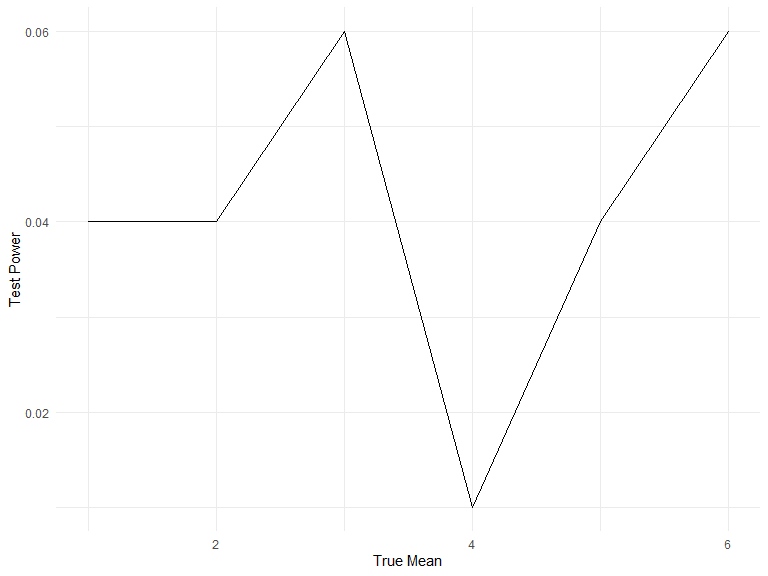
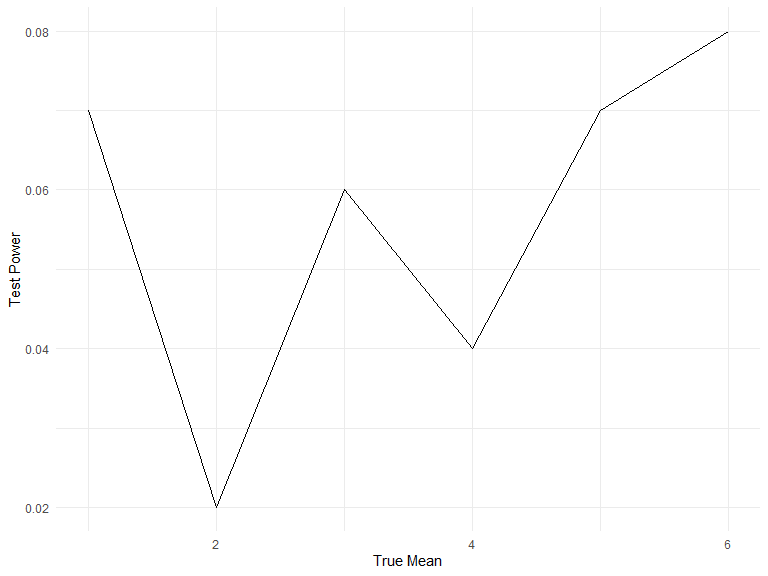
Final commit

diff --git a/p8105_hw5_sr3861.md b/p8105_hw5_sr3861.md
@@ -366,7 +366,6 @@ balt_prop_test %>%
 
 ``` r
 #create a function to perform prop.test()
-
 fxn_prop_test = function(data){
 
 city_summary = 
@@ -393,9 +392,80 @@ all_proportions =
   mutate(
     test_results = map(data, fxn_prop_test))%>%
   select(city_state, test_results) %>%
-  unnest(test_results) %>%
-  knitr::kable()
+  unnest(test_results)
+
+all_proportions %>% knitr::kable()
 ```
+
+| city_state         |  estimate |  conf.low | conf.high |
+|:-------------------|----------:|----------:|----------:|
+| Albuquerque, NM    | 0.3862434 | 0.3372604 | 0.4375766 |
+| Atlanta, GA        | 0.3833505 | 0.3528119 | 0.4148219 |
+| Baltimore, MD      | 0.6455607 | 0.6275625 | 0.6631599 |
+| Baton Rouge, LA    | 0.4622642 | 0.4141987 | 0.5110240 |
+| Birmingham, AL     | 0.4337500 | 0.3991889 | 0.4689557 |
+| Boston, MA         | 0.5048860 | 0.4646219 | 0.5450881 |
+| Buffalo, NY        | 0.6122841 | 0.5687990 | 0.6540879 |
+| Charlotte, NC      | 0.2998544 | 0.2660820 | 0.3358999 |
+| Chicago, IL        | 0.7358627 | 0.7239959 | 0.7473998 |
+| Cincinnati, OH     | 0.4452450 | 0.4079606 | 0.4831439 |
+| Columbus, OH       | 0.5304428 | 0.5002167 | 0.5604506 |
+| Dallas, TX         | 0.4811742 | 0.4561942 | 0.5062475 |
+| Denver, CO         | 0.5416667 | 0.4846098 | 0.5976807 |
+| Detroit, MI        | 0.5883287 | 0.5687903 | 0.6075953 |
+| Durham, NC         | 0.3659420 | 0.3095874 | 0.4260936 |
+| Fort Worth, TX     | 0.4644809 | 0.4222542 | 0.5072119 |
+| Fresno, CA         | 0.3470226 | 0.3051013 | 0.3913963 |
+| Houston, TX        | 0.5074779 | 0.4892447 | 0.5256914 |
+| Indianapolis, IN   | 0.4493192 | 0.4223156 | 0.4766207 |
+| Jacksonville, FL   | 0.5111301 | 0.4820460 | 0.5401402 |
+| Kansas City, MO    | 0.4084034 | 0.3803996 | 0.4370054 |
+| Las Vegas, NV      | 0.4141926 | 0.3881284 | 0.4407395 |
+| Long Beach, CA     | 0.4126984 | 0.3629026 | 0.4642973 |
+| Los Angeles, CA    | 0.4900310 | 0.4692208 | 0.5108754 |
+| Louisville, KY     | 0.4531250 | 0.4120609 | 0.4948235 |
+| Memphis, TN        | 0.3190225 | 0.2957047 | 0.3432691 |
+| Miami, FL          | 0.6048387 | 0.5685783 | 0.6400015 |
+| Milwaukee, wI      | 0.3614350 | 0.3333172 | 0.3905194 |
+| Minneapolis, MN    | 0.5109290 | 0.4585150 | 0.5631099 |
+| Nashville, TN      | 0.3624511 | 0.3285592 | 0.3977401 |
+| New Orleans, LA    | 0.6485356 | 0.6231048 | 0.6731615 |
+| New York, NY       | 0.3875598 | 0.3494421 | 0.4270755 |
+| Oakland, CA        | 0.5364308 | 0.5040588 | 0.5685037 |
+| Oklahoma City, OK  | 0.4851190 | 0.4467861 | 0.5236245 |
+| Omaha, NE          | 0.4132029 | 0.3653146 | 0.4627477 |
+| Philadelphia, PA   | 0.4478103 | 0.4300380 | 0.4657157 |
+| Phoenix, AZ        | 0.5514223 | 0.5184825 | 0.5839244 |
+| Pittsburgh, PA     | 0.5340729 | 0.4942706 | 0.5734545 |
+| Richmond, VA       | 0.2634033 | 0.2228571 | 0.3082658 |
+| San Antonio, TX    | 0.4285714 | 0.3947772 | 0.4630331 |
+| Sacramento, CA     | 0.3696809 | 0.3211559 | 0.4209131 |
+| Savannah, GA       | 0.4674797 | 0.4041252 | 0.5318665 |
+| San Bernardino, CA | 0.6181818 | 0.5576628 | 0.6753422 |
+| San Diego, CA      | 0.3796095 | 0.3354259 | 0.4258315 |
+| San Francisco, CA  | 0.5067873 | 0.4680516 | 0.5454433 |
+| St. Louis, MO      | 0.5396541 | 0.5154369 | 0.5636879 |
+| Stockton, CA       | 0.5990991 | 0.5517145 | 0.6447418 |
+| Tampa, FL          | 0.4567308 | 0.3881009 | 0.5269851 |
+| Tulsa, OK          | 0.3310463 | 0.2932349 | 0.3711192 |
+| Tulsa, AL          | 0.0000000 | 0.0000000 | 0.9453792 |
+| Washington, DC     | 0.4379182 | 0.4112495 | 0.4649455 |
+
+**Plot of proportions & CIs**
+
+``` r
+all_proportions %>%
+  mutate(city_state = fct_reorder(city_state, estimate)) %>%
+  ggplot(aes(x = city_state, y = estimate)) +
+  geom_point() +
+  geom_errorbar(aes(ymin = conf.low, ymax = conf.high))+
+  labs(title = "Proportion of Homicides that Are Unsolved, by City", 
+       x = "City",
+       y = "Estimated Proportion with 95% Confidence Interval") +
+  theme(axis.text.x = element_text(angle = 75, vjust = .5, hjust = 1))
+```
+
+<img src="p8105_hw5_sr3861_files/figure-gfm/plot all cities-1.png" width="90%" />
 
 ### Problem 3: Power in a 1-sample t-test
 
@@ -459,6 +529,9 @@ t_test_stats %>%
 ```
 
 <img src="p8105_hw5_sr3861_files/figure-gfm/plot power-1.png" width="90%" />
+
+There isn’t a clear trend, but it seem sthat overall, power increases
+with increasing effect size.
 
 **Plot the average estimate of μ-hat vs. the true value of μ. Make a
 second plot of the average estimate of μ-hat only in samples for which
